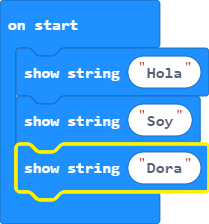
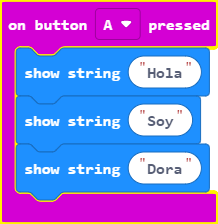
Update main.blocks, main.ts

diff --git a/main.ts b/main.ts
@@ -1,3 +1,5 @@
-basic.showString("Hola")
-basic.showString("Soy")
-basic.showString("Dora")
+input.onButtonPressed(Button.A, function () {
+    basic.showString("Hola")
+    basic.showString("Soy")
+    basic.showString("Dora")
+})
